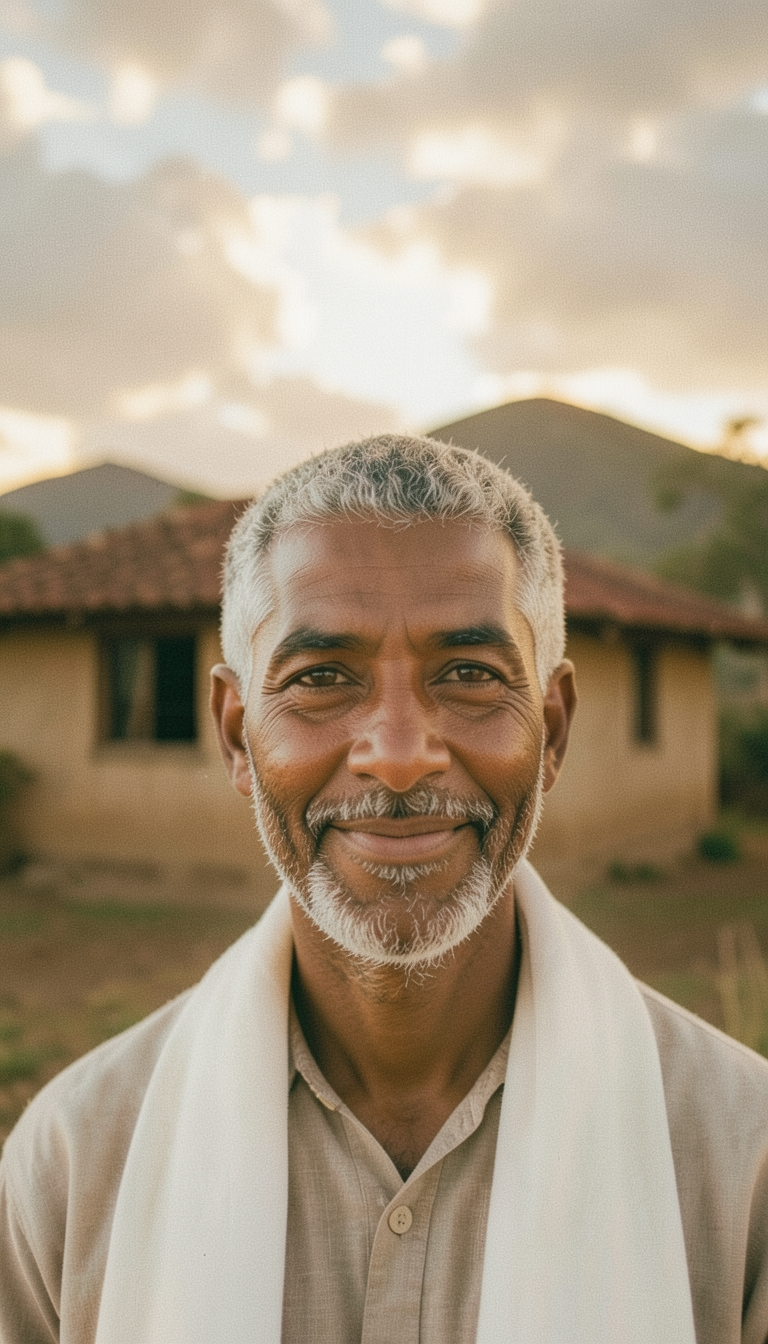
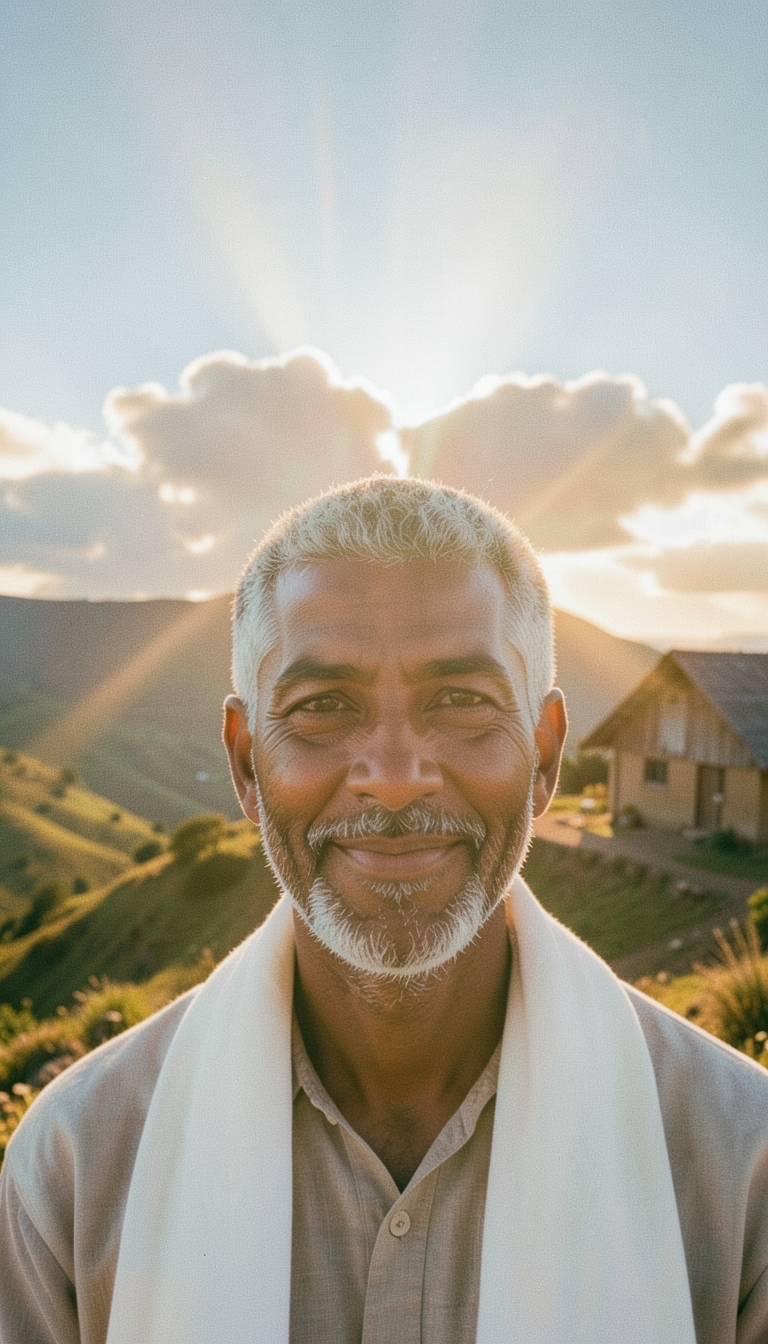
Rerun: only shot 8 regenerated (2 keyframe calls), log and costs updated

diff --git a/COSTS.md b/COSTS.md
@@ -3,13 +3,13 @@
 <!-- generated:start -->
 | Stage | Provider | Model | OK calls | Failed / retried | Mean latency (s) | Total time (s) | GPU min | List-price equivalent (USD) | Real spend |
 |---|---|---|---|---|---|---|---|---|---|
-| assemble | local | ffmpeg-export | 2 | 0 | 70.5 | 141.0 | 0 (CPU) | 0 (local) | $0 |
-| assemble | local | ffmpeg-mix | 1 | 0 | 17.2 | 17.2 | 0 (CPU) | 0 (local) | $0 |
-| keyframes | cloudflare | @cf/black-forest-labs/flux-2-klein-4b | 26 | 5 | 12.2 | 317.3 | 0 | 0.0430 | $0 |
+| assemble | local | ffmpeg-export | 4 | 0 | 69.7 | 278.7 | 0 (CPU) | 0 (local) | $0 |
+| assemble | local | ffmpeg-mix | 2 | 0 | 15.9 | 31.8 | 0 (CPU) | 0 (local) | $0 |
+| keyframes | cloudflare | @cf/black-forest-labs/flux-2-klein-4b | 28 | 5 | 12.0 | 337.1 | 0 | 0.0467 | $0 |
 | music | hf-space | ACE-Step 1.5 (xl-turbo) | 0 | 1 | 0.0 | 0.0 | 0 | n/a | $0 |
 | music | local | synth-tezeta-v1 | 3 | 0 | 3.8 | 11.3 | 0 (CPU) | 0 (local) | $0 |
 | narration | gemini | gemini-3.8-flash-lite-tts | 8 | 1 | 3.9 | 31.2 | 0 | 0.0076 | $0 |
-| shots | local | ffmpeg-zoompan | 16 | 0 | 7.6 | 121.0 | 0 (CPU) | 0 (local) | $0 |
+| shots | local | ffmpeg-zoompan | 18 | 0 | 7.6 | 136.0 | 0 (CPU) | 0 (local) | $0 |
 
-List-price total for every logged call: **$0.0506**. Real spend: **$0** (free tiers and a CPU laptop).
+List-price total for every logged call: **$0.0542**. Real spend: **$0** (free tiers and a CPU laptop).
 <!-- generated:end -->
